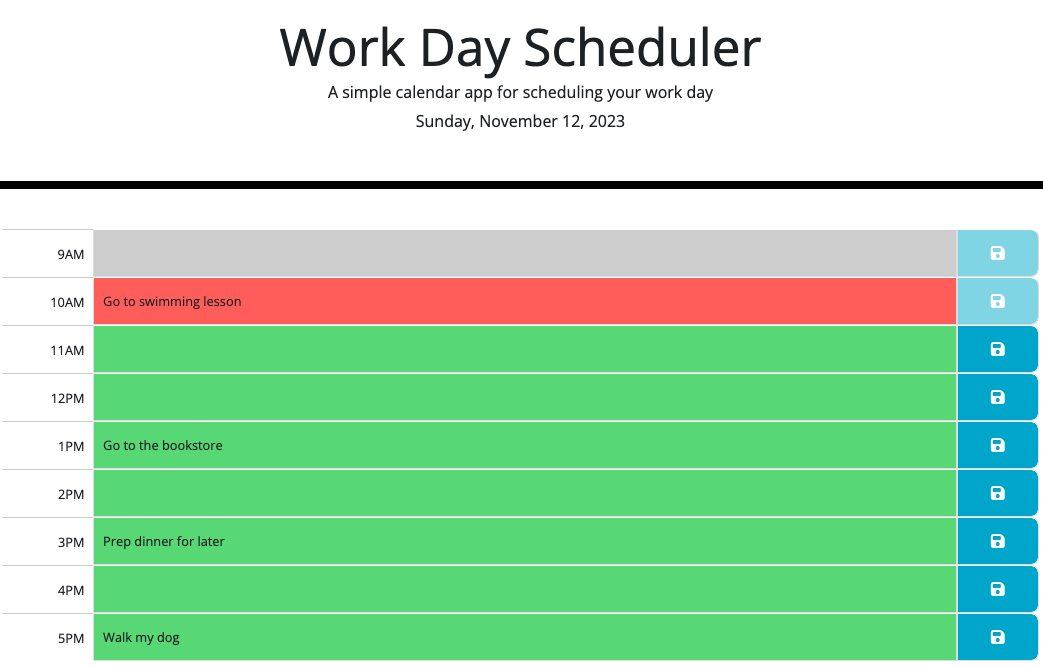
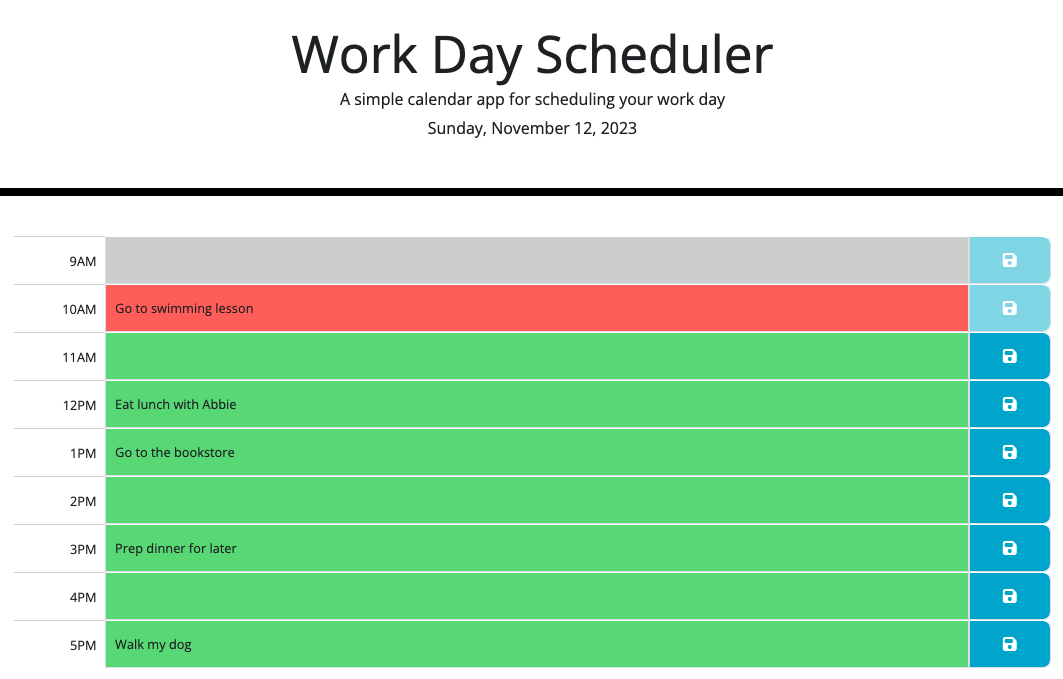
fix script.js code with 12pm block not retrieving from local storage because of a typo

Changed region(s): [[0.0614, 0.3308, 1.0, 1.0], [0.2454, 0.0301, 0.7363, 0.2105], [0.0, 0.2707, 1.0, 0.3008]]

diff --git a/assets/js/script.js b/assets/js/script.js
@@ -220,7 +220,7 @@ function retrieveLocalData() {
     var elevenAMData = localStorage.getItem("Time: " + label11AM + "AM");
     elevenAM.val(elevenAMData);
 
-    var twelvePMData = localStorage.getItem("Time: " + label2PM + "PM");
+    var twelvePMData = localStorage.getItem("Time: " + label12PM + "PM");
     twelvePM.val(twelvePMData);
 
     var onePMData = localStorage.getItem("Time: " + label1PM + "PM");
